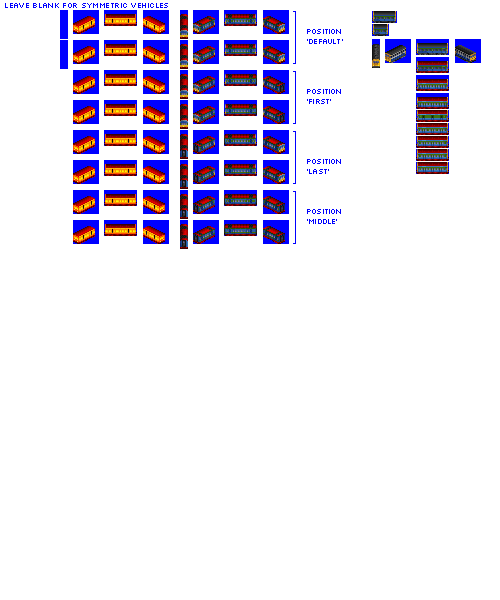
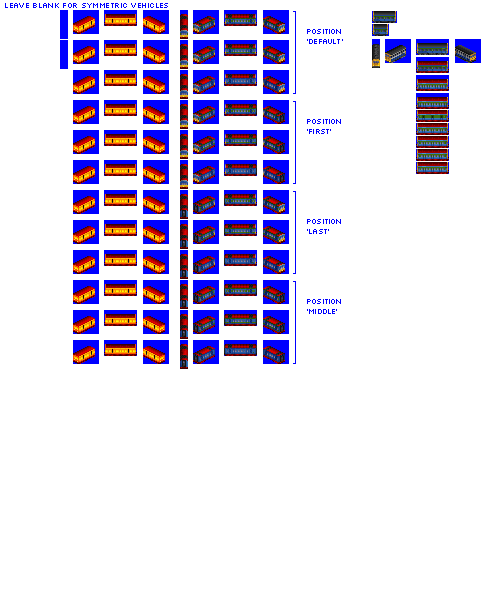
Change: add banger blue livery to Athena and Deasil

diff --git a/src/rosters/pony.py b/src/rosters/pony.py
@@ -896,10 +896,20 @@ def main():
                 ("VINYL_VECTOR", 2),
                 ("VAPID_VOYAGER", 3),
             ],
+            "gen_3_diesel_pax_railcar_liveries": [
+                ("RIDEWELL", 0),
+                ("SURE_PACE", 1),
+                ("BANGER_BLUE", 2),
+            ],
             "gen_5_diesel_pax_railcar_liveries": [
                 ("FRUIT_RIPPLE", 0),
                 ("SURE_PACE", 1),
                 ("LOWER_LINES", 2),
+            ],
+            "gen_3_electric_railcar_pax_liveries": [
+                ("SURE_PACE", 1),
+                ("RIDEWELL", 0),
+                ("BANGER_BLUE", 2),
             ],
             "gen_5_electric_pax_railcar_liveries": [
                 ("SURE_PACE", 1),
@@ -1046,10 +1056,6 @@ def main():
                 ("VAPID_VOYAGER", 1),
                 ("MAIL_BY_RAIL", 2),
                 ("MAIL_BY_RAIL", 4),
-            ],
-            "gen_3_railcar_pax_liveries": [
-                ("SURE_PACE", 1),
-                ("RIDEWELL", 0),
             ],
             "gen_4_railcar_pax_liveries": [
                 ("RAIN_OR_SHINE", 1),

diff --git a/src/vehicles/pony/athena.py b/src/vehicles/pony/athena.py
@@ -20,7 +20,7 @@ def main(**kwargs):
         # introduce early by design
         intro_year_offset=-3,
         # this railcar type specifies liveries per model_def for flexibility
-        livery_group_name="gen_3_railcar_pax_liveries",
+        livery_group_name="gen_3_electric_railcar_pax_liveries",
         sprites_complete=True,
     )
 

diff --git a/src/vehicles/pony/deasil.py b/src/vehicles/pony/deasil.py
@@ -19,7 +19,7 @@ def main(**kwargs):
         # introduce early by design
         intro_year_offset=-5,
         # this railcar type specifies liveries per model_def for flexibility
-        livery_group_name="gen_3_railcar_pax_liveries",
+        livery_group_name="gen_3_diesel_pax_railcar_liveries",
         sprites_complete=True,
     )
 
